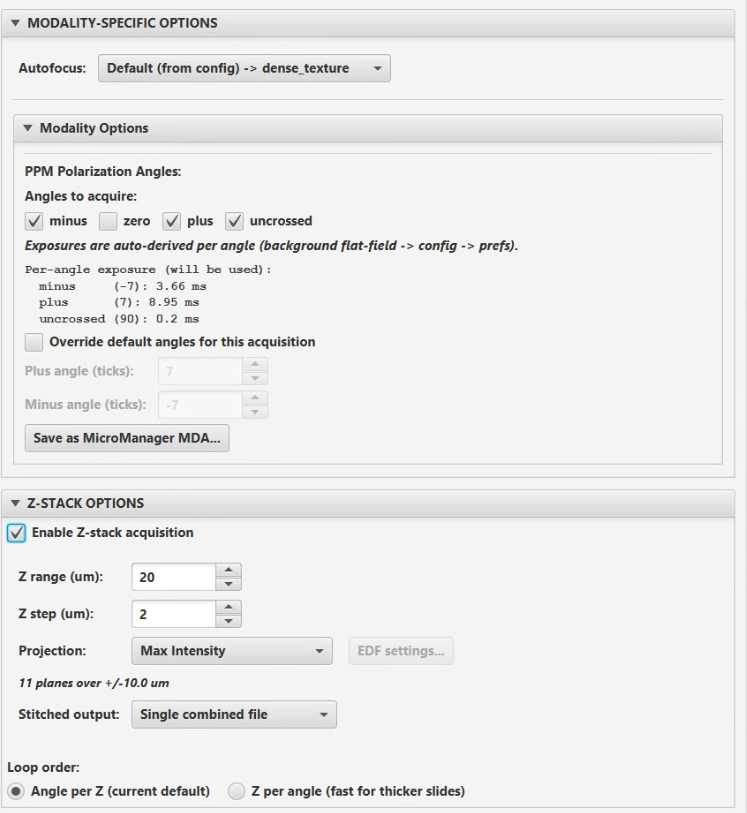
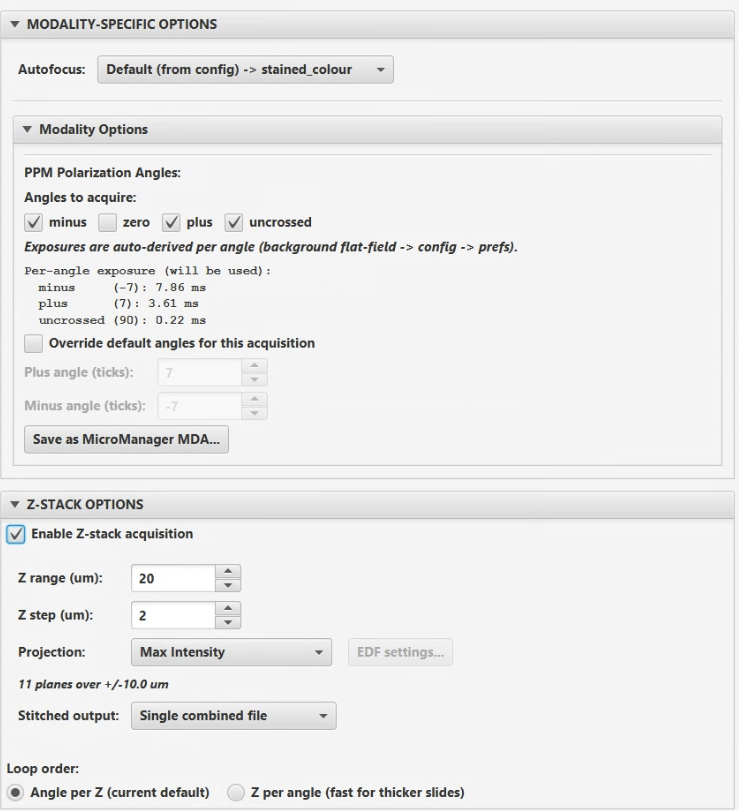
docs(images): generate the nested menu figures; re-capture six dialogs
The QP Scope menu is now three levels deep in places, so a single flat
screenshot of it no longer exists to be captured. Documenting the nesting
with real screenshots would mean re-capturing several cascading figures --
each needing the right branch held open -- every time one label moves,
which is the chore that leaves menu figures a year stale.

Add tools/render_menu_mock.py: three-line text specs in
documentation/images/menus/*.menu render to the cascade figures. --check
cross-references every label against strings.properties and the
new Menu/new MenuItem literals in SetupScope.java, so a spec cannot quietly
drift from the code; exactly four labels are expected to be unverifiable
(QuPath SCope, QuIET, Class Distribution, PPM -- built at runtime or owned
by other extensions). These are explicitly mock-ups: structure and item
text accurate, spacing and shading not, and UTILITIES.md says so where it
embeds them. Docs_mainmenu.png is retired.

Re-captured from the rig: AcquisitionWizard (status dots, per-mode
calibration lines), BoundedAcquisition, MultiSlide_Assignment (hardware
block + a FAILED focus-approach line), MultiSlide_StageMap (tissue bounding
boxes, FOV crosshair, rotated slide), ExistingImage_Modality_Zstack,
LiveViewer_Navigate.

Registry notes now record that StageControlPanel.java builds the Navigate,
Saved Points AND Camera tabs, so camera-only edits flag those two figures
spuriously -- that mislabelling is what sent the last re-capture request out
[…]

diff --git a/documentation/images/IMAGE_REGISTRY.md b/documentation/images/IMAGE_REGISTRY.md
@@ -10,13 +10,13 @@ This file tracks the relationship between documentation screenshots and the Java
 
 | Screenshot | Java Source File(s) | Last Verified | Status |
 |------------|-------------------|---------------|--------|
-| `Docs_AcquisitionWizard.png` | `ui/AcquisitionWizardDialog.java` | 2026-05-27 | OK |
+| `Docs_AcquisitionWizard.png` | `ui/AcquisitionWizardDialog.java` | 2026-09-19 | OK -- re-captured (unannotated); shows the hardware-status dots and the per-mode white-balance / background lines |
 | `Docs_AcquisitionWorkflowProgress.png` | `ui/DualProgressDialog.java` | 2026-05-27 | OK |
 | `Docs_AnnotationAcquisition.png` | `ui/AnnotationAcquisitionDialog.java` | 2026-08-22 | OK -- re-captured (unannotated). Mapped to the actual class selection dialog rather than the broad ExistingImageAcquisitionController; the multi-tile refinement radio lives in the consolidated dialog, not here, so this no longer false-flags |
 | `Docs_AutofocusConfigurationEditor.png` | `controller/AutofocusEditorWorkflow.java` | 2026-05-27 | OK |
 | `Docs_AutofocusParameterBenchmark.png` | `ui/AutofocusBenchmarkDialog.java` | -- | CHECK |
 | `Docs_BackgroundCollection.png` | `ui/BackgroundCollectionController.java` | 2026-05-27 | OK |
-| `Docs_BoundedAcquisition.png` | `ui/UnifiedAcquisitionController.java` | 2026-08-22 | OK -- re-captured (unannotated; the numbered callouts from the 2026-05-27 figure are gone) |
+| `Docs_BoundedAcquisition.png` | `ui/UnifiedAcquisitionController.java` | 2026-09-19 | OK -- re-captured (unannotated); includes the "Sample is already in focus" checkbox. NOTE: autofocus is currently drawn inside MODALITY-SPECIFIC OPTIONS, which is a known layout bug (see TODO_LIST) -- this figure will need re-capturing when it moves out |
 | `Docs_BoundedAcquisition_TileGrid.png` | Lab-meeting slide deck (workflow figure; not a single UI class) | 2026-06-01 | OK |
 | `Docs_CameraControl.png` | `ui/CameraControlController.java` | 2026-05-27 | OK |
 | `Docs_CommunicationSettings.png` | `ui/ServerConnectionController.java` | 2026-05-27 | OK |
@@ -24,10 +24,10 @@ This file tracks the relationship between documentation screenshots and the Java
 | `Docs_CrossInstrumentWorkflow.png` | Lab-meeting slide deck (workflow figure; not a single UI class) | 2026-06-01 | OK |
 | `Docs_ExistingImage_ConsolidatedDialog.png` | `ui/ExistingImageAcquisitionController.java` | 2026-08-22 | OK -- re-captured (unannotated). Modality / Z-stack panes are collapsed here; see `Docs_ExistingImage_Modality_Zstack.png` for those expanded |
 | `Docs_ExistingImage_FluorescenceProject.png` | Lab-meeting slide deck (QuPath project view; not a single UI class) | 2026-06-01 | OK |
-| `Docs_ExistingImage_Modality_Zstack.png` | `ui/ExistingImageAcquisitionController.java`, `modality/ppm/ui/PPMBoundingBoxUI.java` | 2026-08-22 | OK -- the MODALITY-SPECIFIC + Z-STACK panes expanded (PPM angles shown); companion to the consolidated-dialog figure |
+| `Docs_ExistingImage_Modality_Zstack.png` | `ui/ExistingImageAcquisitionController.java`, `modality/ppm/ui/PPMBoundingBoxUI.java` | 2026-09-19 | OK -- re-captured; MODALITY-SPECIFIC + Z-STACK panes expanded (PPM angles, projection, loop order) |
 | `Docs_LiveViewer.png` | `ui/liveviewer/LiveViewerWindow.java` | 2026-08-22 | OK -- re-captured (unannotated; the numbered callouts from the 2026-05-27 figure are gone) |
-| `Docs_LiveViewer_Navigate.png` | `ui/liveviewer/StageControlPanel.java` | -- | CHECK -- renamed from `Docs_LiveViewer_Position.png` (tab renamed Position -> Navigate 2026-07-22); needs re-capture |
-| `Docs_LiveViewer_SavedPoints.png` | `ui/liveviewer/StageControlPanel.java` | 2026-07-22 | OK -- drift check false-flagged it on 2026-07-22 (shared source with Navigate); no visible change, no re-capture needed |
+| `Docs_LiveViewer_Navigate.png` | `ui/liveviewer/StageControlPanel.java` (Navigate tab only) | 2026-09-19 | OK -- re-captured. The class also builds the Camera tab, so camera-only edits flag this figure spuriously; the Navigate tab has the joystick, Coarse/Fine Z bars, Move to Position and Calibrate Directions, and no camera controls |
+| `Docs_LiveViewer_SavedPoints.png` | `ui/liveviewer/StageControlPanel.java` (Saved Points tab only) | 2026-07-22 | CHECK -- shares a source class with the Navigate and Camera tabs, so it flags on camera edits that cannot affect it; verify before re-capturing |
 | `Docs_LiveViewer_Camera.png` | `ui/liveviewer/LiveViewerWindow.java` (camera tab) | -- | CHECK -- previously untracked |
 | `Docs_MicroscopeAlignment_SelectSourceMicroscope.png` | `ui/MicroscopeSelectionDialog.java` | -- | CHECK |
 | `Docs_MicroscopeAlignment_RefineAlignment.png` | `controller/workflow/SingleTileRefinement.java` (3-point / single-tile refinement dialog) | -- | CHECK -- SIFT refinement dialogs changed substantially; verify or re-capture |
@@ -43,12 +43,14 @@ This file tracks the relationship between documentation screenshots and the Java
 | `Docs_SystemArchitecture.png` | Lab-meeting slide deck (architecture diagram; not a UI class) | 2026-06-01 | OK |
 | `Docs_WorkflowOverview_Desktop.png` | Lab-meeting slide deck (full-desktop composite; multiple UI classes) | 2026-06-01 | OK |
 | `Docs_WhiteBalanceCalibration.png` | `ui/WhiteBalanceDialog.java` | 2026-05-27 | OK |
-| `Docs_mainmenu.png` | `SetupScope.java` | 2026-08-22 | OK -- re-captured after the Light Path Orientation / Migrate Flipped Duplicates menu additions |
 | `Docs_ppmmenu.png` | `SetupScope.java` (PPM modality submenu) | -- | CHECK |
-| `Docs_MultiSlide_Assignment.png` | `ui/MultiSlideAssignmentDialog.java` | 2026-07-23 | OK |
+| `Docs_menu_acquisition_controls.png` | GENERATED from `images/menus/Docs_menu_acquisition_controls.menu` by `tools/render_menu_mock.py` | 2026-09-19 | OK -- mock-up, not a screenshot. Do not re-capture; edit the `.menu` spec and re-run |
+| `Docs_menu_image_quality.png` | GENERATED from `images/menus/Docs_menu_image_quality.menu` by `tools/render_menu_mock.py` | 2026-09-19 | OK -- mock-up, not a screenshot. Do not re-capture; edit the `.menu` spec and re-run |
+| `Docs_menu_microscope_configuration.png` | GENERATED from `images/menus/Docs_menu_microscope_configuration.menu` by `tools/render_menu_mock.py` | 2026-09-19 | OK -- mock-up, not a screenshot. Do not re-capture; edit the `.menu` spec and re-run |
+| `Docs_MultiSlide_Assignment.png` | `ui/MultiSlideAssignmentDialog.java` | 2026-09-19 | OK -- re-captured; shows the Modality / Objective / Detector block and the per-mode calibration status lines incl. a FAILED focus-approach characterisation |
 | `Docs_MultiSlide_BatchPanel.png` | `controller/MultiSlideExistingImageWorkflow.java` | 2026-09-19 | OK -- re-captured at the END of a run (all four slots Done, Finish enabled, measured run estimate shown). Supersedes the 2026-07-23 figure, whose title bar still read "MS Workflow Progress (experimental)" before the rename to "Multi-Slide Acquisition Progress". The Advanced / SIFT settings pane is collapsed here; it was expanded in the old figure |
 | `Docs_SaturationSummary.png` | `ui/SaturationSummaryDialog.java` | 2026-09-19 | OK -- multi-slide run (7 acquisitions); 3 flagged samples expanded worst-first, clean ones collapsed, and the collapsed "Expected bright tiles" row that separates modality-normal brightness from concerning saturation |
-| `Docs_MultiSlide_StageMap.png` | `ui/stagemap/StageMapWindow.java`, `ui/stagemap/StageMapCanvas.java` (four-slide vertical carrier) | 2026-08-22 | OK -- re-captured; also used in stage-map.md as the multi-slot counterpart to the single-slide figure |
+| `Docs_MultiSlide_StageMap.png` | `ui/stagemap/StageMapWindow.java`, `ui/stagemap/StageMapCanvas.java` (four-slide vertical carrier) | 2026-09-19 | OK -- re-captured; zoomed to show per-slide tissue bounding boxes, the camera-FOV crosshair, and a 180-degree-rotated slide label |
 
 ## Missing Screenshots (UI exists but no image)
 

diff --git a/documentation/images/menus/README.md b/documentation/images/menus/README.md
@@ -1,0 +1,52 @@
+# Menu figures -- generated, not captured
+
+Each `*.menu` file here is the source for the matching `Docs_menu_*.png` in the
+parent folder. **Edit the spec and re-run the renderer; never edit the PNG.**
+
+```bash
+python3 tools/render_menu_mock.py --all          # regenerate every figure
+python3 tools/render_menu_mock.py --all --check  # also verify the item labels
+```
+
+Run from the monorepo root.
+
+## Why these are mock-ups
+
+The QP Scope menu is nested three levels deep (`Acquisition controls`, `PPM`,
+`Utilities > Image Quality | Project Tools | Microscope Configuration`).
+Documenting that with real screenshots means re-capturing several *nested*
+figures -- each one requiring the right cascade to be held open -- every time a
+single label moves. That is the kind of chore that gets skipped, which is how
+menu figures end up a year out of date.
+
+So these are drawn from a text spec instead. The trade is explicit:
+
+- **Accurate:** item text, ordering, grouping/separators, which items have
+  submenus, and which branch is open.
+- **Approximate:** fonts, spacing, shading, shadows, and the non-QPSC menus
+  (QuIET, Class Distribution) shown for context.
+
+Docs that embed them must say so. `UTILITIES.md` carries the standard note.
+
+`--check` cross-references every label against `menu.*` in `strings.properties`
+and the `new Menu("...")` / `new MenuItem("...")` literals in `SetupScope.java`.
+It is advisory: labels built at runtime -- the per-modality `PPM` submenu, and
+other extensions' menus -- have no literal to match and are reported as
+unverified rather than wrong. Four such labels are expected
+(`QuPath SCope`, `QuIET`, `Class Distribution`, `PPM`); anything beyond those
+four means a spec has drifted from the code.
+
+## Spec format
+
+```
+panel Extensions            # starts a cascade column; the title is never drawn
+  > QuPath SCope [open]     # '>' has a submenu; [open] = next panel hangs here
+  > QuIET                   #                      and this row is highlighted
+panel QuPath SCope
+  Acquisition Wizard...
+  ---                       # separator
+  * Bounded Acquisition     # '*' = highlighted (the hovered leaf)
+```
+
+Every panel except the last needs exactly one `[open]` item, or the renderer
+has nothing to cascade from and will tell you which panel is missing it.

diff --git a/documentation/UTILITIES.md b/documentation/UTILITIES.md
@@ -2,7 +2,22 @@
 
 This document provides an overview of all utilities available in the QPSC extension. Click any tool name for full documentation including all options, workflow details, and troubleshooting.
 
-![QP Scope main menu](images/Docs_mainmenu.png)
+The menu is nested three levels deep in places, so it is documented as three
+figures -- one per branch you are likely to be hunting in:
+
+![Extensions > QP Scope > Acquisition controls](images/Docs_menu_acquisition_controls.png)
+
+![Extensions > QP Scope > Utilities > Image Quality](images/Docs_menu_image_quality.png)
+
+![Extensions > QP Scope > Utilities > Microscope Configuration](images/Docs_menu_microscope_configuration.png)
+
+> These three are **representations of the menu, not screenshots**. The item
+> text and the structure are accurate and are checked against the source; the
+> spacing, shading and the non-QPSC entries around them are approximations.
+> They are generated from short text specs in
+> [`images/menus/`](images/menus/) by `tools/render_menu_mock.py`, so when a
+> menu item moves, the fix is a one-line edit and a re-run rather than four
+> re-captured nested screenshots.
 
 The **QP Scope** entry in the menu bar shows a coloured dot so it stands out when multiple QuPath extensions are installed. The dot colour and visibility are configured in `Preferences > QuPath Scope > Show menu colour dot` and `Menu dot colour`.
 
